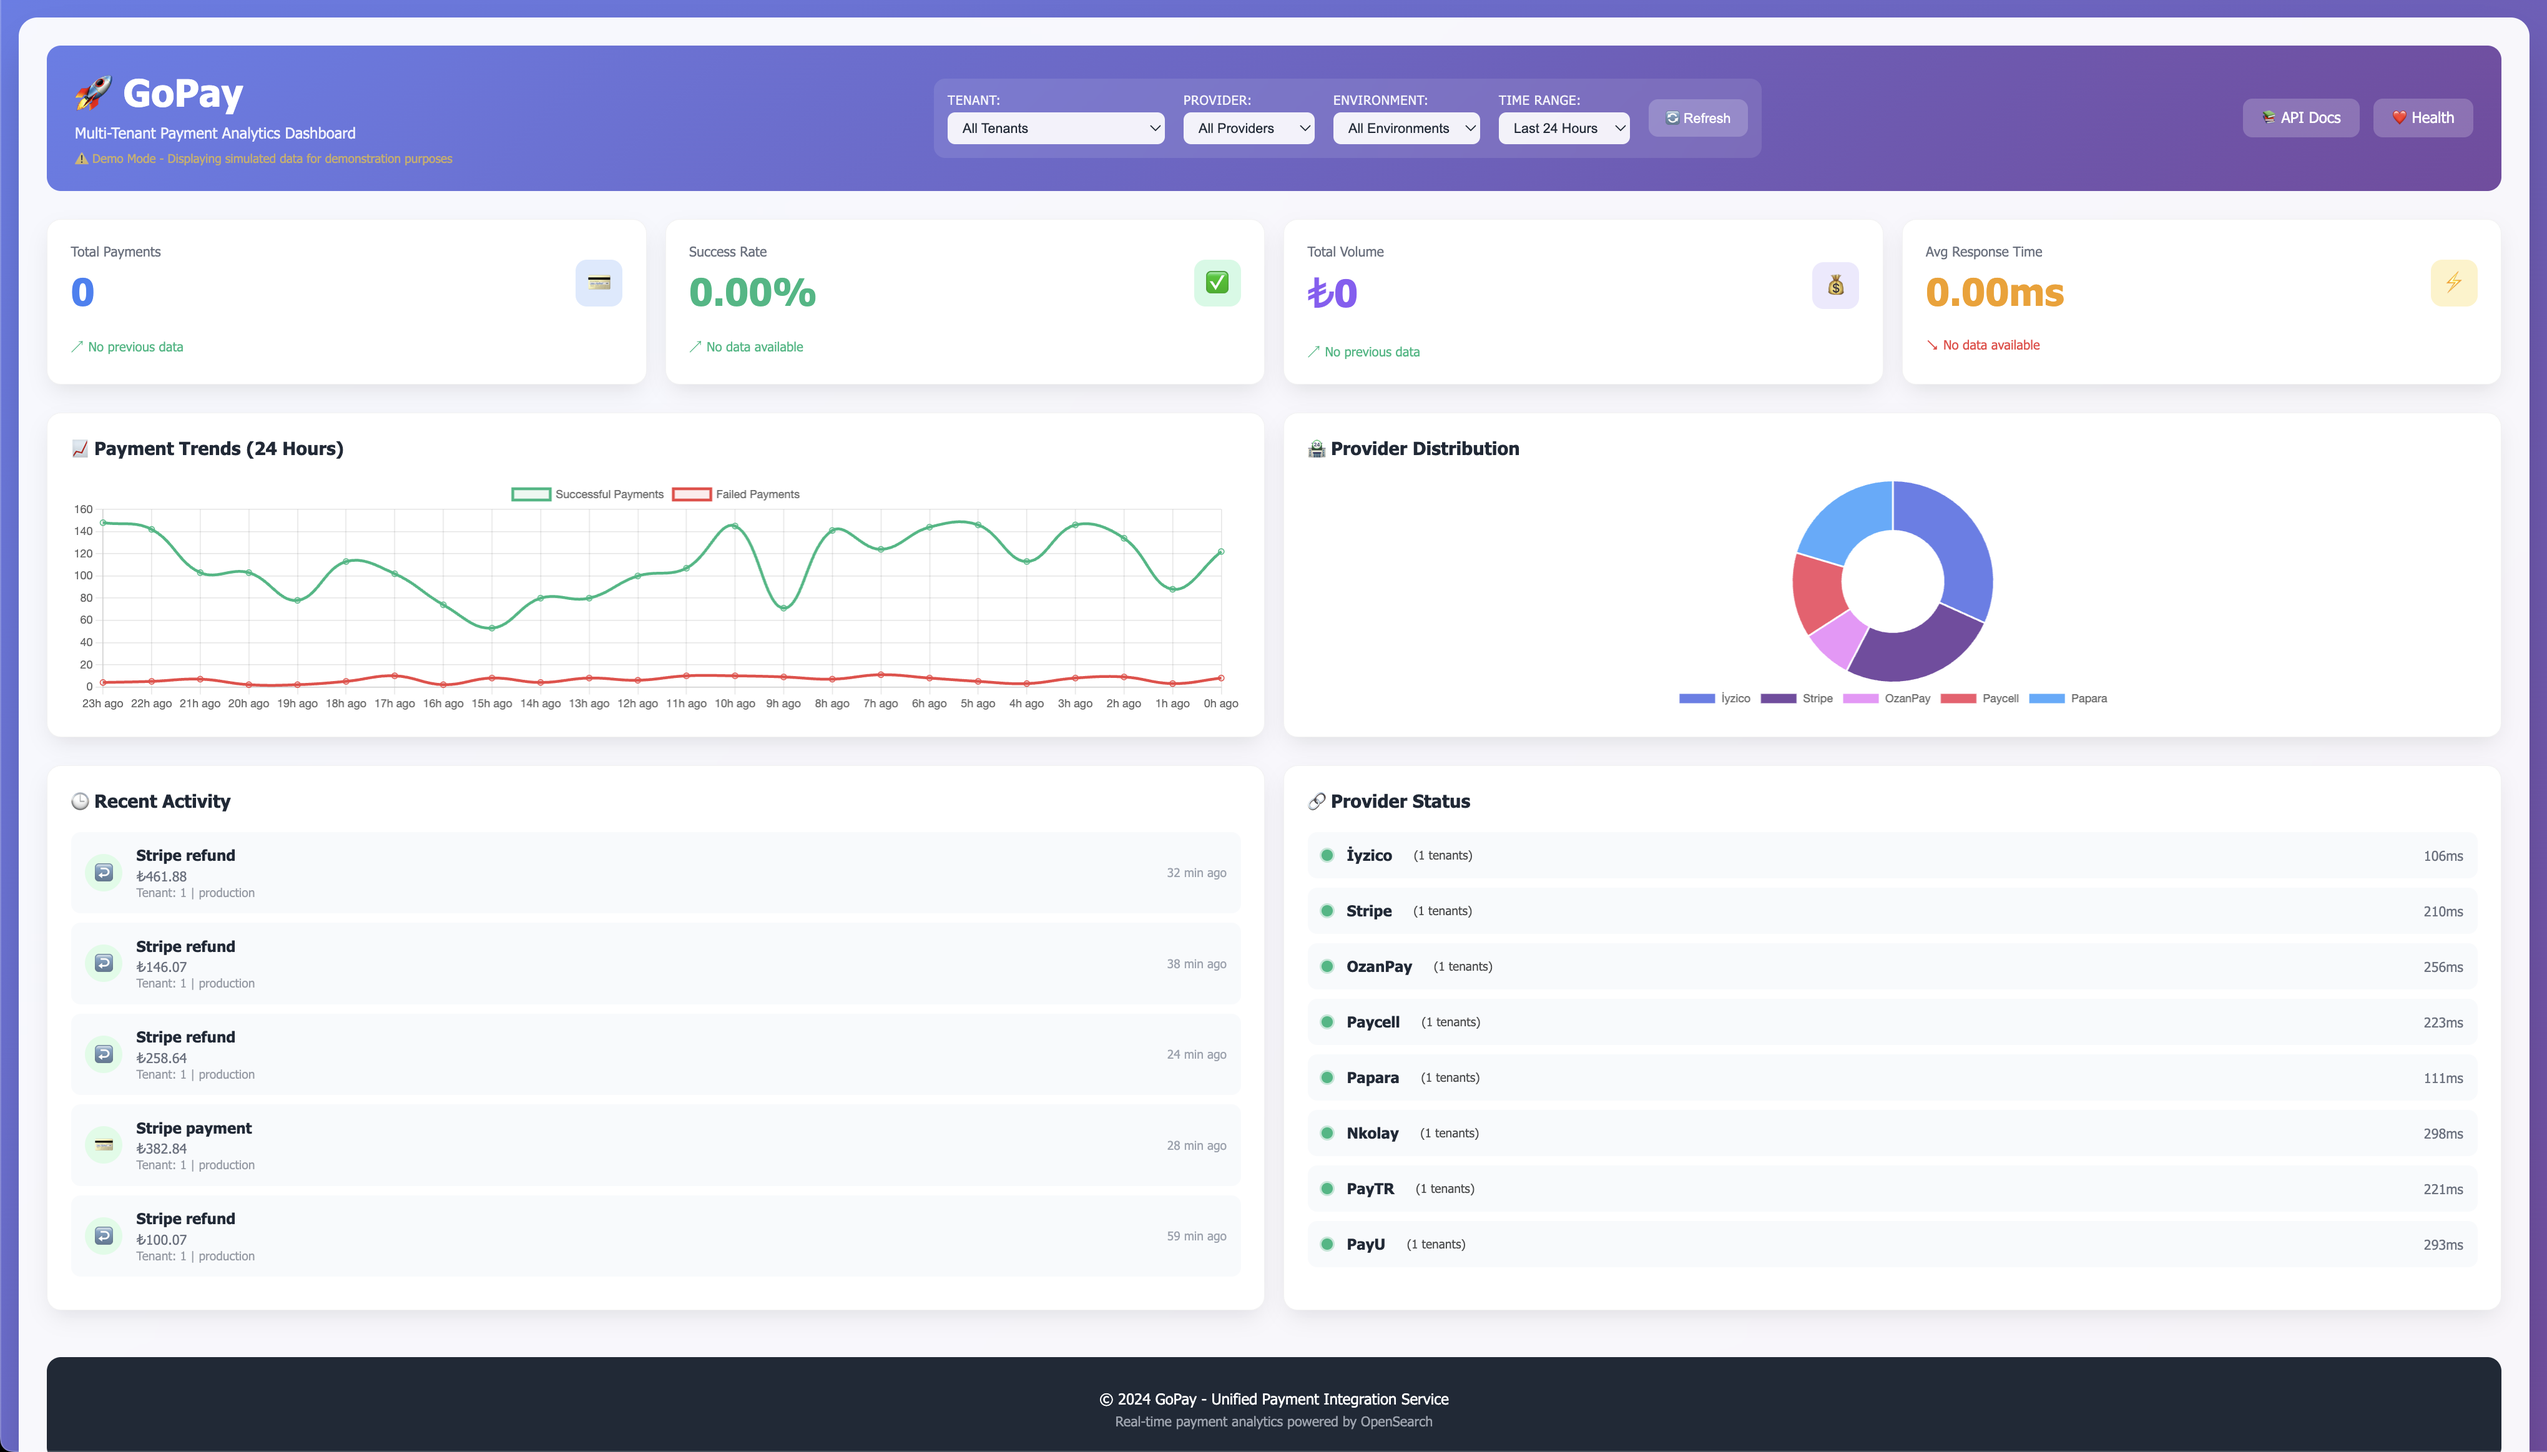
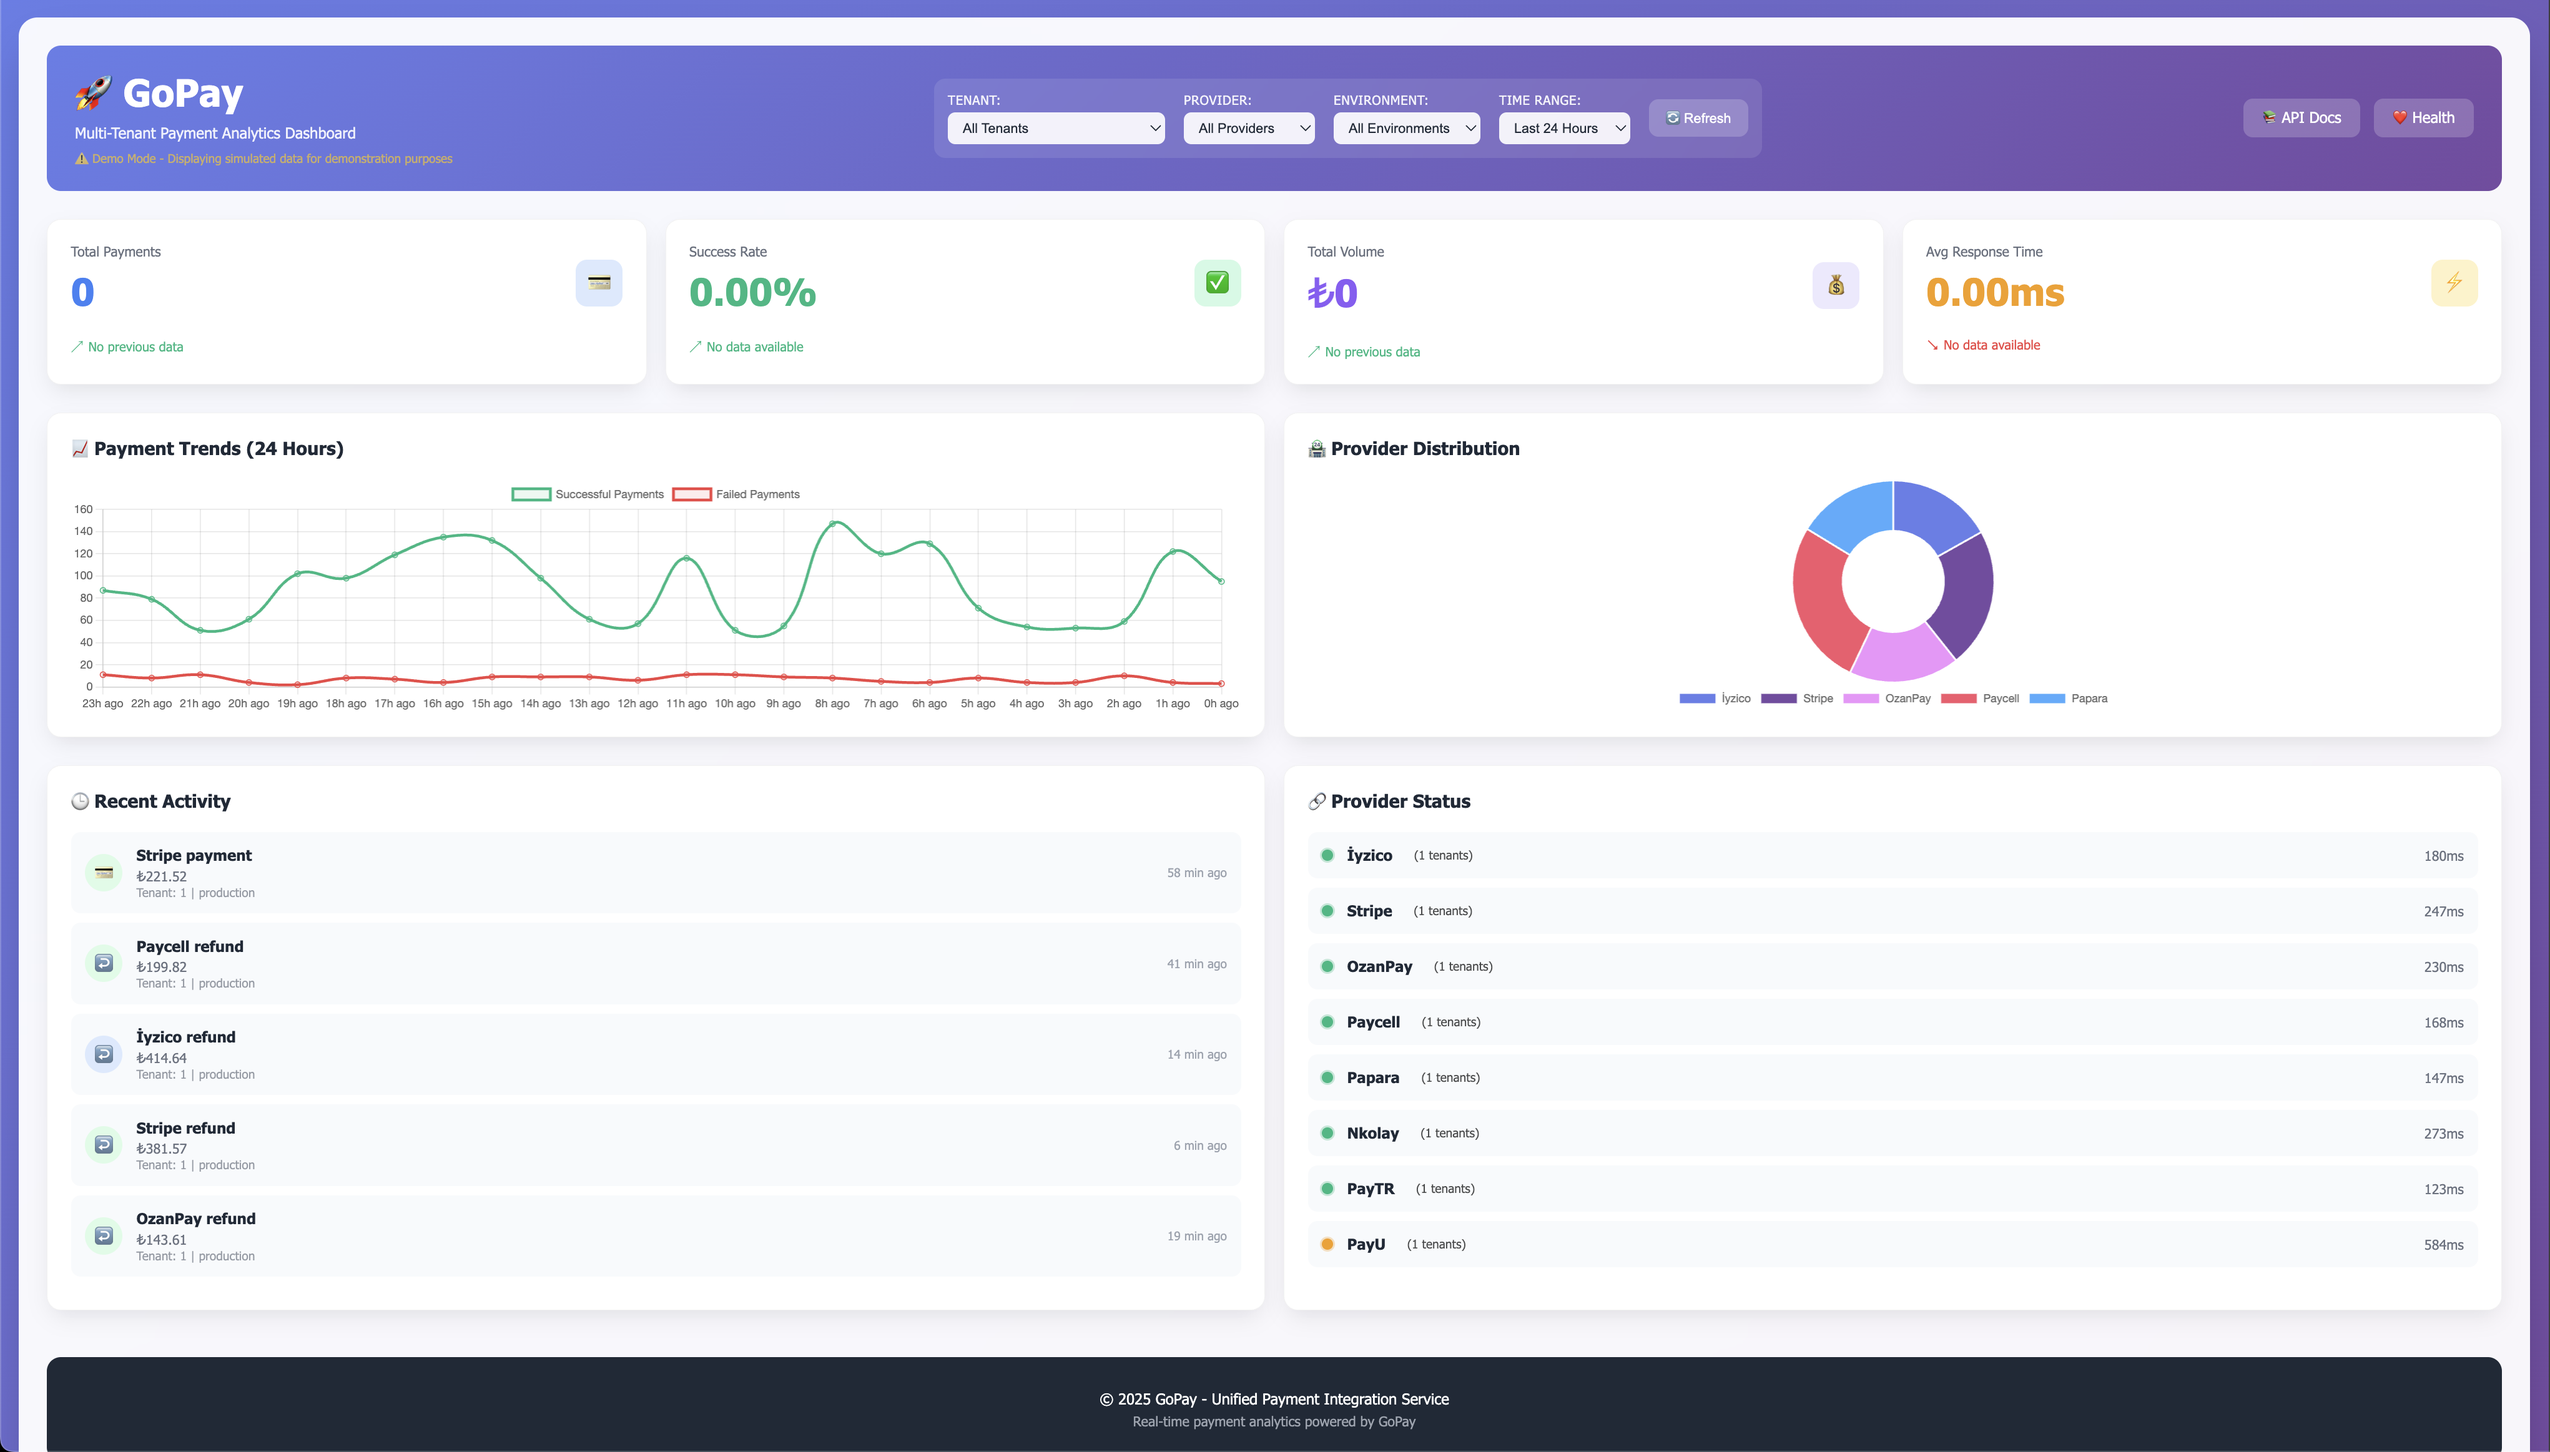
dashboard

diff --git a/public/index.html b/public/index.html
@@ -192,7 +192,7 @@
         <!-- Footer -->
         <footer class="footer">
             <p>&copy; 2025 GoPay - Unified Payment Integration Service</p>
-            <p class="footer-subtitle">Real-time payment analytics powered by OpenSearch</p>
+            <p class="footer-subtitle">Real-time payment analytics powered by GoPay</p>
         </footer>
     </div>
 
